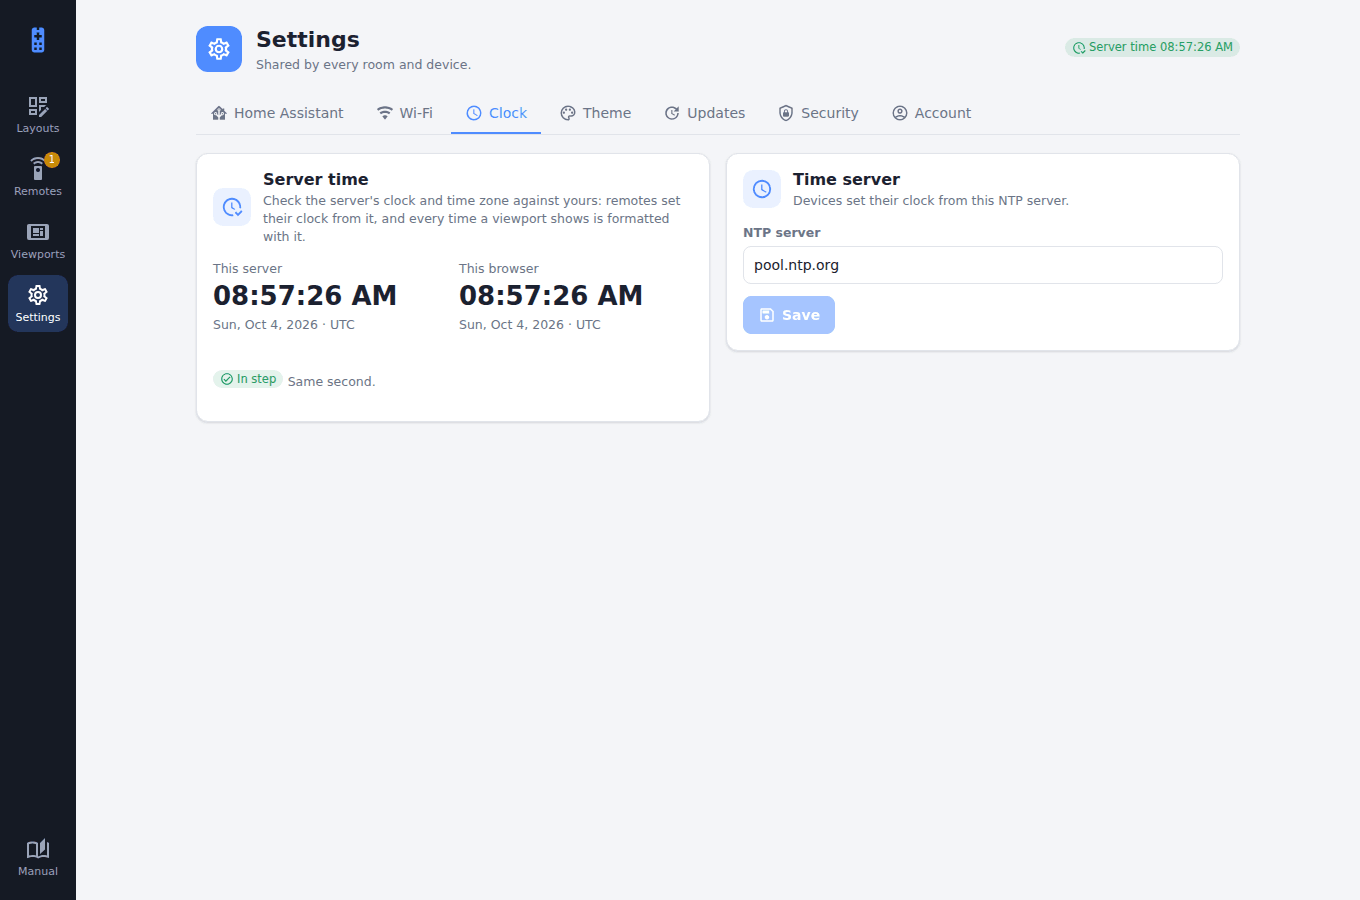
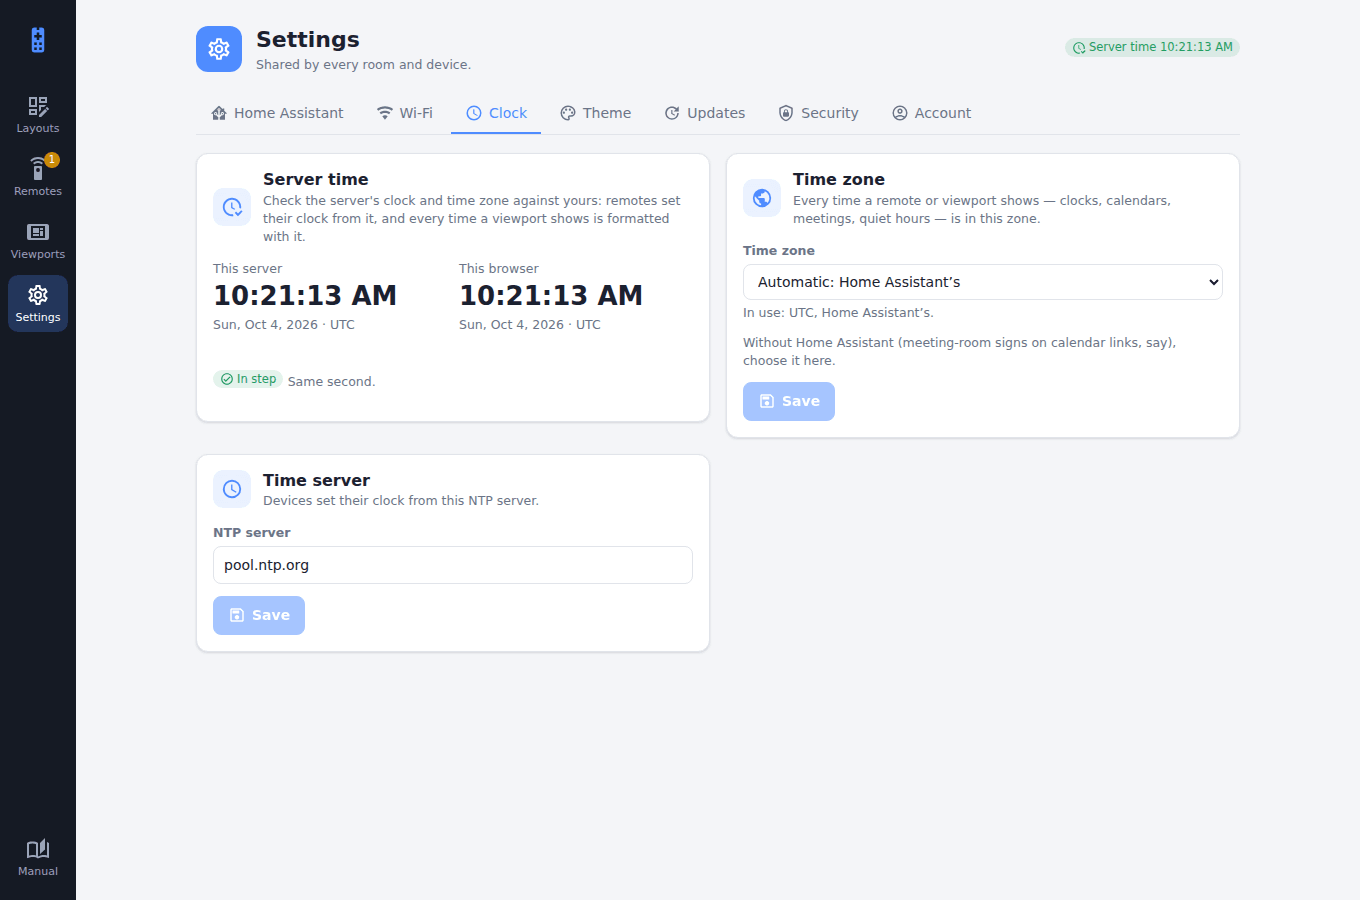
Manual: the time zone setting (Settings -> Clock, TZ), and setting it first in an office
Claude-Session: https://claude.ai/code/session_012u7Tsk3WmSPsMgQDKQsdJ4

diff --git a/docs/manual/viewport/office.md b/docs/manual/viewport/office.md
@@ -84,14 +84,15 @@ For signs that need to last longer, turn the timeline off, or refresh every hour
 
 ## Putting up many at once
 
-1. **Install the firmware** on each display from the [browser flasher](../../). Do it once per display, over USB.
-2. **Put each one on the Wi-Fi.** Each display shows two QR codes; join its hotspot with a phone and pick the network ([Setting up](setup.md#2-connect-it-to-wi-fi)). This takes about a minute per display.
+1. **Set the time zone.** With no Home Assistant, choose the office's in **Settings → Clock → Time zone**. Otherwise the server runs on UTC and every sign's times are out; the Home page warns about this.
+2. **Install the firmware** on each display from the [browser flasher](../../). Do it once per display, over USB.
+3. **Put each one on the Wi-Fi.** Each display shows two QR codes; join its hotspot with a phone and pick the network ([Setting up](setup.md#2-connect-it-to-wi-fi)). This takes about a minute per display.
    - Displays need a network with a password (WPA2 or WPA3 Personal). They can't sign in to enterprise Wi-Fi (802.1X). Many offices have an IoT or devices network for this.
    - The network must be able to reach the server. If it's a separate network (VLAN), multicast usually doesn't cross to the server's, so the display can't find the server by itself. Type the server's address in **Switchboard Server** on the setup page, for example `10.20.0.5:45678`.
    - Once paired, displays also use every network saved under the server's **Settings → Wi-Fi**.
-3. **Write down each display's MAC address.** A display shows it on its screen while it waits to be approved.
-4. **Add the rooms.** On the **Layouts** page, under **Viewport layouts**, press **Add many meeting rooms** and paste the list of rooms: one per line, columns straight from a spreadsheet.
-5. **Hang them up.** Each sign starts as soon as it's approved, or at its next check (every 2 minutes) if it was already waiting.
+4. **Write down each display's MAC address.** A display shows it on its screen while it waits to be approved.
+5. **Add the rooms.** On the **Layouts** page, under **Viewport layouts**, press **Add many meeting rooms** and paste the list of rooms: one per line, columns straight from a spreadsheet.
+6. **Hang them up.** Each sign starts as soon as it's approved, or at its next check (every 2 minutes) if it was already waiting.
 
 <figure class="shot"><img src="../images/admin/meeting-rooms-bulk.png" alt="Add many meeting rooms"><figcaption><b>Layouts → Add many meeting rooms</b>: each line read as you type, and anything wrong with it shown before anything is made.</figcaption></figure>
 

diff --git a/docs/manual/server/settings.md b/docs/manual/server/settings.md
@@ -22,6 +22,8 @@ The network remotes join, and the household's networks, which the remote's [Wi-F
 
 Remotes set their clock from the server, so this tab says if the server's clock drifts or its time zone differs from your browser's. It also sets the NTP server devices use.
 
+**Time zone.** Every time a remote or viewport shows (clocks, calendars, meetings, quiet hours) is in the server's time zone. Leave it on **Automatic** and the server takes Home Assistant's, re-checked hourly. Without Home Assistant (meeting-room signs on calendar links, for example), choose it here: a container is otherwise on UTC, and the Home page warns that times are shown in it. `TZ` in the server's environment wins over this setting. A change takes effect at once, and on each display at its next refresh.
+
 ## Theme and Updates
 
 See [Theme](theme.md) and [Updates](remote-updates.md).

diff --git a/docs/manual/server/configuration.md b/docs/manual/server/configuration.md
@@ -12,6 +12,7 @@
 | `DISABLE_MDNS` | off | Set `1` to turn off discovery entirely |
 | `ADMIN_PASSWORD` | unset | Seeds/overwrites the admin UI's password on every start. Leave unset to set it once from the UI's own setup screen instead. |
 | `ALLOWED_NETWORKS` | unset | Replaces Settings → Security's allowed networks while set: comma-separated ranges or addresses, or `any` to turn the check off. The way back in if a list ever shuts you out. |
+| `TZ` | unset | The time zone every device's times are shown in (e.g. `Europe/Dublin`). Wins over **Settings → Clock → Time zone**; without either, the server takes Home Assistant's. |
 | `TRUST_PROXY` | unset | Behind a reverse proxy: its address(es), comma-separated (or `loopback`). The allowed networks then check the address the proxy forwards, not the proxy's. |
 
 ## On Unraid
